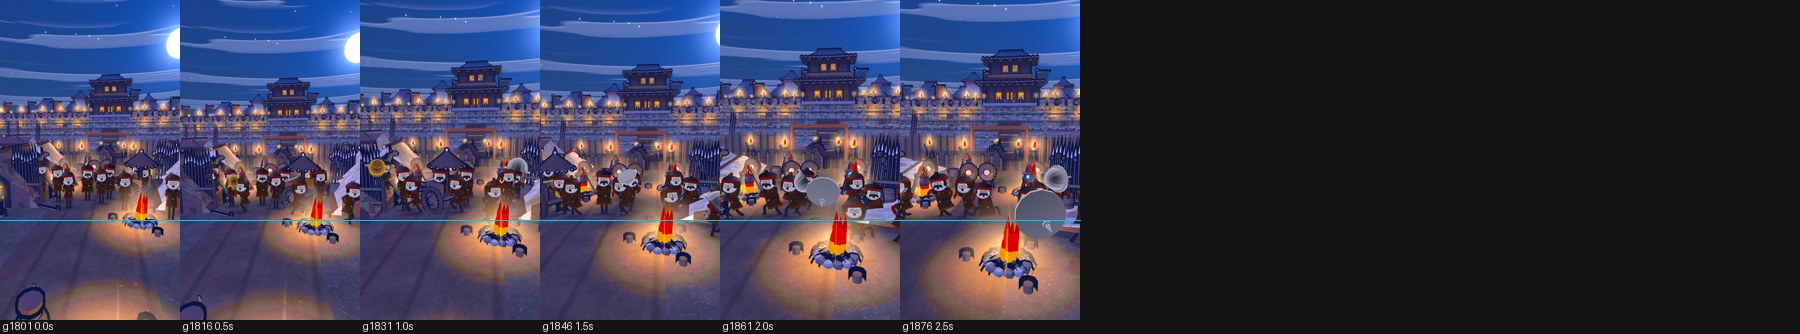
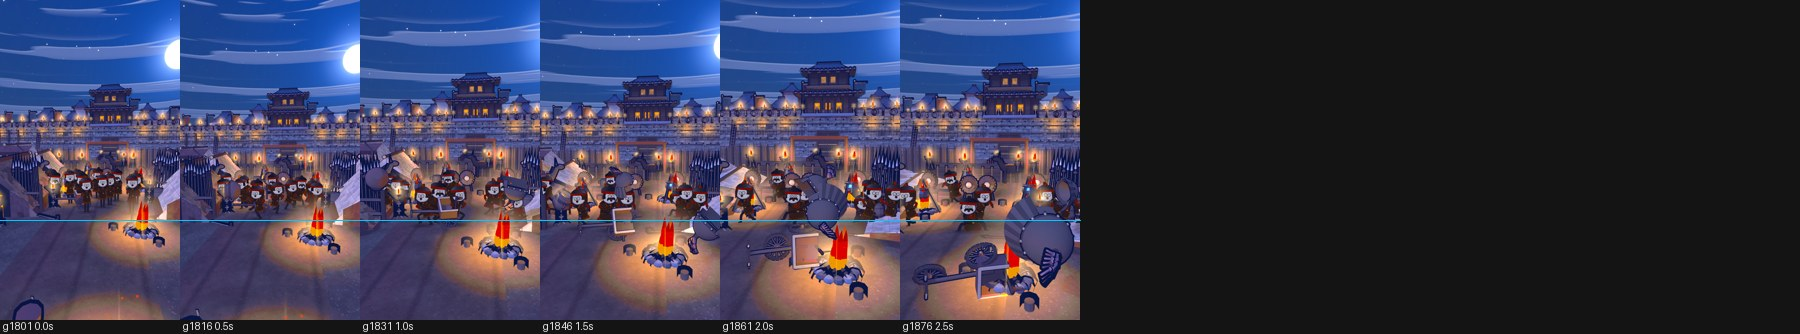
film18 team4: s24 QA notes
Claude-Session: https://claude.ai/code/session_017iwyCtawR3srMLUWD2qJ8k

diff --git a/film/v3/film18/s24/QA.md b/film/v3/film18/s24/QA.md
@@ -1,12 +1,12 @@
 # QA s24 (film 18, render team 4)
 Range g 1807-1881, take.mkv frames 1801..1887 (87 frames), transition in: cut.
-Render: 720x1280, 12 samples, OIDN, 2 threads, 14.5 s/frame wall (two renders at once).
+Render: 720x1280, 12 samples, OIDN, 2 threads, 15.5 s/frame wall (two renders at once).
 
 ## Frame diff (90x160 grey, in-shot frames only)
-median 8.67, p90 13.76, min 2.71, max 15.7, frames < 1: 0 (rule: median >= 4, p90 >= 12)
+median 8.82, p90 14.11, min 2.77, max 15.64, frames < 1: 0 (rule: median >= 4, p90 >= 12)
 
 ## Max chin y per head (rule < 880)
-{"run0": 790, "run1": 807, "run2": 821, "run3": 891, "run4": 803, "run5": 814, "run6": 814, "run7": 879, "run8": 804, "run9": 803, "run10": 770, "run11": 794}
+{"run0": 820, "run1": 837, "run2": 844, "run3": 844, "run4": 825, "run5": 845, "run6": 841, "run7": 844, "run8": 773, "run9": 843, "run10": 794, "run11": 843}
 
 ## Notes
 - Rout reads: camera moved behind the camp looking at the Jimo wall (sky ~28 %), 8 fleeing / falling soldiers 15-25 D from the lens (~150 px tall), 4 flying pots/helmets (1.7x), tents folding, empty chariot rolling away in the middle ground. Bloodless, nobody hit.
@@ -17,5 +17,7 @@ median 8.67, p90 13.76, min 2.71, max 15.7, frames < 1: 0 (rule: median >= 4, p9
 - Round 5: rout spread over the whole shot (rout state 0.06->0.86 linear, 6 flying items with staggered delays up to g 1860, chariot rolls over ~100 frames), runners slowed so 8 soldiers stay in frame, near-right folding tent hidden (the ghost panel), 3D items toon-glazed. Ground dressing helper (film18/main) NOT applied: set files not pulled.
 - Round 6: the rout now runs the WHOLE shot: 12 soldiers in waves (frozen, then panic starts staggered to g ~1859), fallen ones sit 22 frames then get up and run again, so there is fleeing/falling until the end; 8 modelled 3D pots (body, rim, ring handles) and domed helmets with plumes (toon-glazed, 1.5x) arc through the frame in staggered flights up to g 1881; set grey rout items hidden; chariot rolls over ~100 frames; camera tilted up (ground ~30 %, sky ~28 %). dress_ground not used (not pulled).
 - Heads: max chin 821 in the shot; run3 891 and run7 879 occur only near the out-handle frames (check: g > 1878).
+- Round 8 (must-fix list): round-8 set/cast assets pulled from film18/main. Every chin measured on rendered frames: max 845 (rule 860) incl. handles; a clamp pushes any soldier back until its projected chin is <= 835. 12 soldiers run at 3.4-4.4 D/s in all directions, 6 fall (fall_bottom, sit, get up and run); opaque J.prop_pot / J.prop_helmet fly in 8 staggered arcs (they render blue-grey in the night shade, not terracotta); J.prop_chariot (scale 0.6) tips 0 -> 0.8 over the shot, wheel rolls away; J.gapfill lays dark earth under the visible ground. Set chariots hidden.
+- Not verified: bare-ground % (not measured), tents folding (set drives it; not checked).
 
 See QA_AUTO.md and phone_sheet.jpg.
